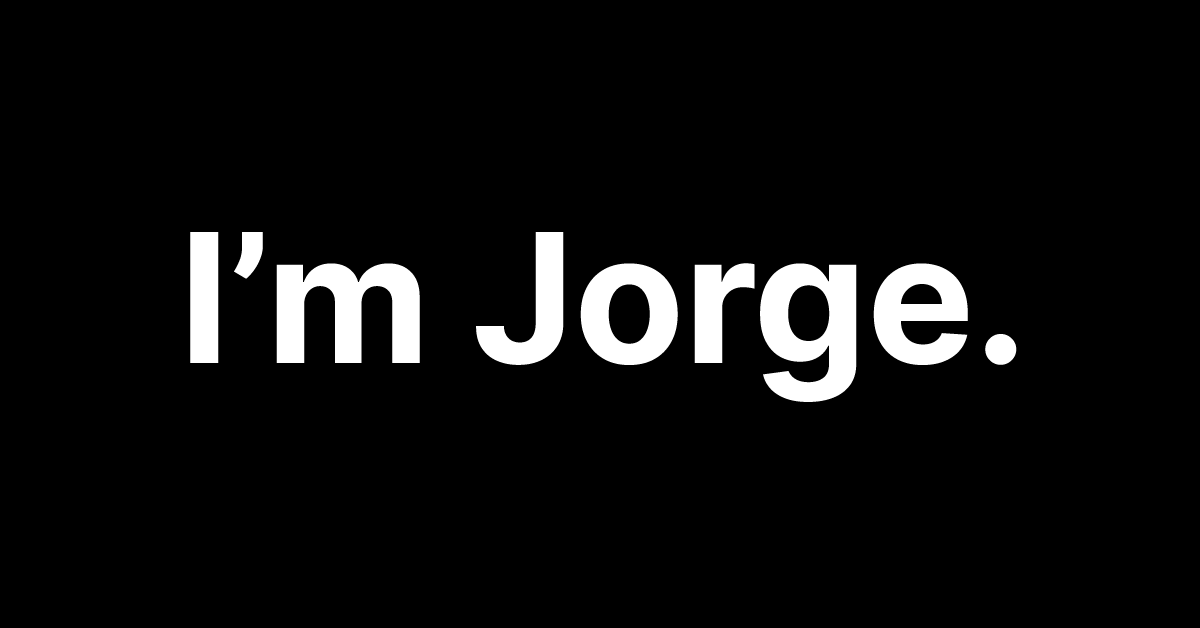
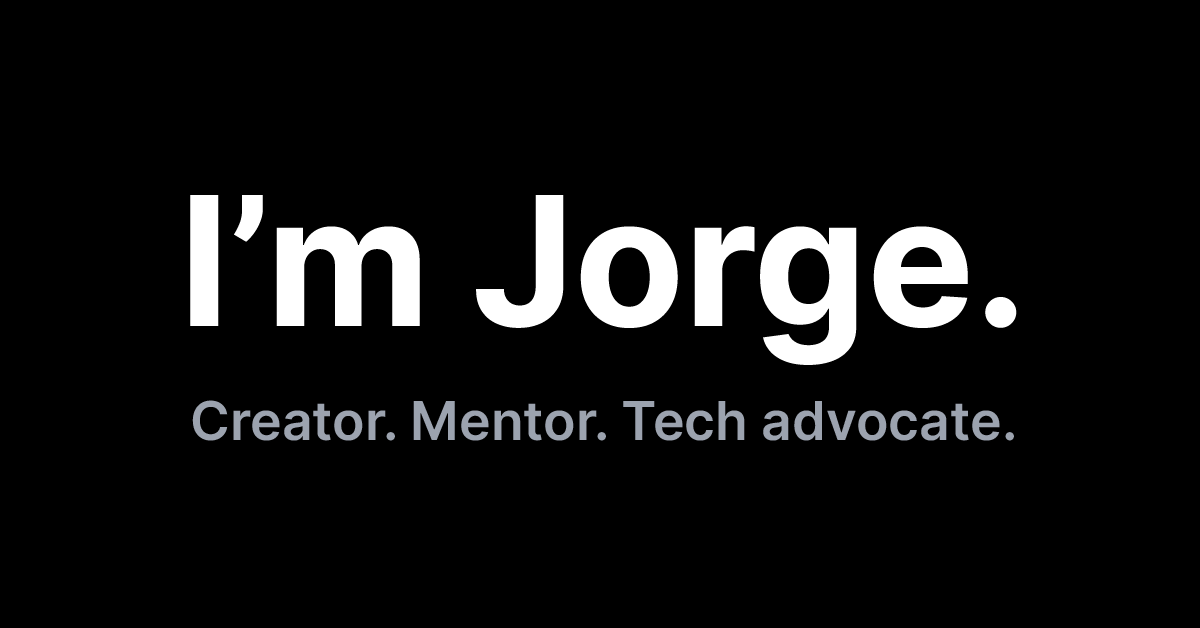
redesign

diff --git a/pages/index.js b/pages/index.js
@@ -1,24 +1,40 @@
 import Seo from '../components/seo'
 import Navbar from '../components/navbar'
-import Rotate from '../components/effects/rotate'
-import Bounce from '../components/effects/bounce'
+import Skills from '../components/effects/skills'
+import BizAway from '../components/effects/bizaway'
 
 export default function Home() {
+  const skills = [
+    'technology',
+    'JavaScript',
+    'containers',
+    'React',
+    'Kubernetes',
+    'AWS',
+    'Linux',
+    'MongoDB'
+  ]
+
   return (
     <>
       <Seo />
-      <div className="h-screen flex flex-col bg-black text-white pt-8 px-8 select-none">
-        <div className="max-w-4xl">
-          <p className="text-5xl sm:text-6xl md:text-8xl font-medium">
-            I&apos;m Jorge, I love building <Bounce>cool</Bounce> stuff with
-            technology.
+      <div className="h-screen flex flex-col bg-black text-gray-50 select-none">
+        <div className="max-w-4xl p-10 sm:p-20">
+          <p className="text-5xl sm:text-6xl md:text-8xl mb-3 font-bold">
+            I&apos;m Jorge.
           </p>
-          <p className="text-5xl sm:text-6xl md:text-8xl font-medium mt-6">
-            I <Rotate>help</Rotate> others do it too.
+          <p className="text-4xl sm:text-5xl font-semibold md:text-7xl text-gray-400 mb-4">
+            I use <Skills skills={skills} /> <br className="inline sm:hidden" />
+            to <br className="hidden sm:inline" /> build great things.
+          </p>
+          <p className="text-3xl sm:text-4xl font-semibold md:text-6xl text-gray-600">
+            Currently at <BizAway />.
           </p>
         </div>
         <div className="grow" />
-        <Navbar />
+        <div className="pb-8 max-w-4xl ">
+          <Navbar />
+        </div>
       </div>
     </>
   )

diff --git a/components/effects/skills.js b/components/effects/skills.js
@@ -1,0 +1,32 @@
+import { motion } from 'framer-motion'
+import { useState } from 'react'
+
+function Skills({ skills }) {
+  const variants = {}
+
+  const [current, setCurrent] = useState(0)
+  const [clicks, setClicks] = useState(0)
+
+  return (
+    <motion.span
+      whileHover={{
+        scale: 1.0 + 0.02 * clicks,
+        transition: { duration: 0.5 }
+      }}
+      whileTap={{
+        scale: 0.99,
+        transition: { duration: 0.2 }
+      }}
+      onClick={() =>
+        clicks < 3
+          ? setClicks(clicks + 1)
+          : setCurrent((current + 1) % skills.length)
+      }
+      className="hover:text-primary hover:cursor-pointer transition-colors inline-block select-none"
+    >
+      {skills[current]}
+    </motion.span>
+  )
+}
+
+export default Skills

diff --git a/components/effects/bizaway.js b/components/effects/bizaway.js
@@ -1,0 +1,24 @@
+import Link from 'next/link'
+import { motion } from 'framer-motion'
+
+function BizAway() {
+  return (
+    <Link href="https://bizaway.com" passHref>
+      <motion.a
+        whileHover={{
+          scale: 1.01,
+          transition: { duration: 0.5 }
+        }}
+        whileTap={{
+          scale: 0.99,
+          transition: { duration: 0.2 }
+        }}
+        className="hover:text-[#00BCD6] transition-colors inline-block"
+      >
+        BizAway
+      </motion.a>
+    </Link>
+  )
+}
+
+export default BizAway

diff --git a/components/navbar.js b/components/navbar.js
@@ -2,7 +2,7 @@ import Link from 'next/link'
 
 function Navbar() {
   return (
-    <div className="flex flex-col sm:flex-row pb-8 justify-around max-w-4xl font-medium">
+    <div className="flex flex-col sm:flex-row px-8 sm:px-0 justify-around font-medium text-gray-400 ">
       <Link href="https://github.com/jorgeteixe" passHref>
         <a className="mt-2 sm:mt-0 hover:text-primary transition-colors">
           GitHub

diff --git a/components/seo.js b/components/seo.js
@@ -4,7 +4,7 @@ function Seo({ title }) {
   return (
     <Head>
       <title>
-        Jorge Teixeira |{' '}
+        Jorge Teixeira —{' '}
         {title || 'Creator. Mentor. Tech advocate based in Galicia.'}
       </title>
       <meta
